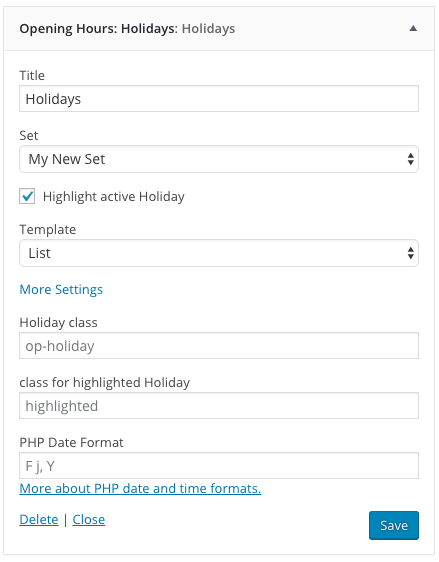
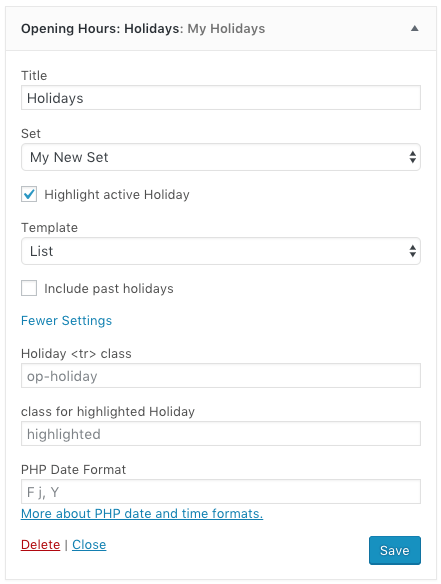
added documentation for new shortcode attributes and widget options

diff --git a/README.md b/README.md
@@ -346,7 +346,7 @@ There are the folliwing options:
 ![Is Open Widget Options](./doc/screenshots/widget-is-open-options.png)
 
 ### <a name="holidays-widget"></a>Holidays Widget
-The holiday widget displays all holidays in the specified set in a table or list.  
+The holiday widget displays all holidays in the specified set in a table or list. Holidays are always sorted ascedingly by their start dates.  
 There are the following options:
 
 <table>
@@ -370,6 +370,10 @@ There are the following options:
 		<tr>
 			<td>Template</td>
 			<td>You can choose among two templates: Table and List. The list template will display all data in a vertical list. This is useful for narrow sidebars.</td>
+		</tr>
+		<tr>
+			<td>Include past holidays</td>
+			<td>Whether to show past holidays in the widget</td>
 		</tr>
 	</tbody>
 	<thead>
@@ -398,7 +402,8 @@ There are the following options:
 
 ### <a name="irregular-openings-widget"></a>Irregular Openings Widget
 
-The Irregular Openings Widget displays all Irregular Openings in the specified Set in a table or list.  
+The Irregular Openings Widget displays all Irregular Openings in the specified Set in a table or list. Irregular Openings are always sorted ascendingly by their start dates and times.  
+An Irregular Opening is reagarded as being in the past, when the full day, when the Irregular Opening takes place, has ended.  
 There are the following options:
 
 <table>
@@ -422,6 +427,10 @@ There are the following options:
 		<tr>
 			<td>Template</td>
 			<td>You can choose among two templates: Table and List. The list template will display all data in a vertical list. This is useful for narrow sidebars.</td>
+		</tr>
+		<tr>
+			<td>Include past irregular openings</td>
+			<td>Whether to show past irregular openings in the widget</td>
 		</tr>
 	</tbody>
 	<thead>
@@ -682,6 +691,12 @@ The following attributes are available (Also mind the **[Common Attributes](#com
 			<td>Whether to highlight currently active holidays</td>
 		</tr>
 		<tr>
+			<td><code>include_past</code></td>
+			<td><code>bool</code></td>
+			<td><code>false</code></td>
+			<td>Whether to include past holidays</td>
+		</tr>
+		<tr>
 			<td><code>class_holiday</code></td>
 			<td><code>string</code></td>
 			<td><code>op-holiday</code></td>
@@ -726,6 +741,12 @@ The following attributes are available (Also mind the **[Common Attributes](#com
 			<td><code>bool</code></td>
 			<td><code>false</code></td>
 			<td>Whether to highlight currently active irregular openings.</td>
+		</tr>
+		<tr>
+			<td><code>include_past</code></td>
+			<td><code>bool</code></td>
+			<td><code>false</code></td>
+			<td>Whether to include past irregular openings</td>
 		</tr>
 		<tr>
 			<td><code>class_highlighted</code></td>
